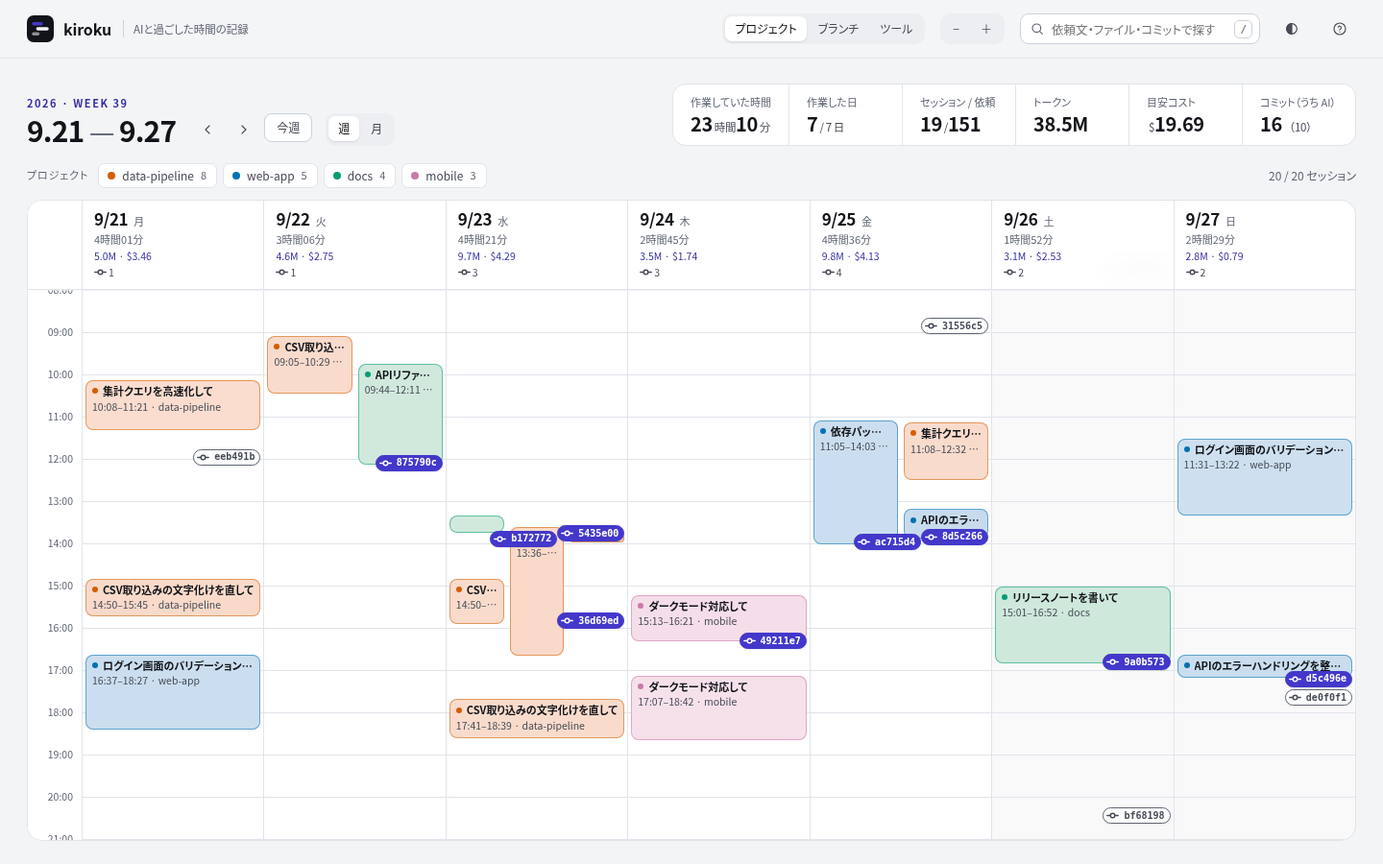
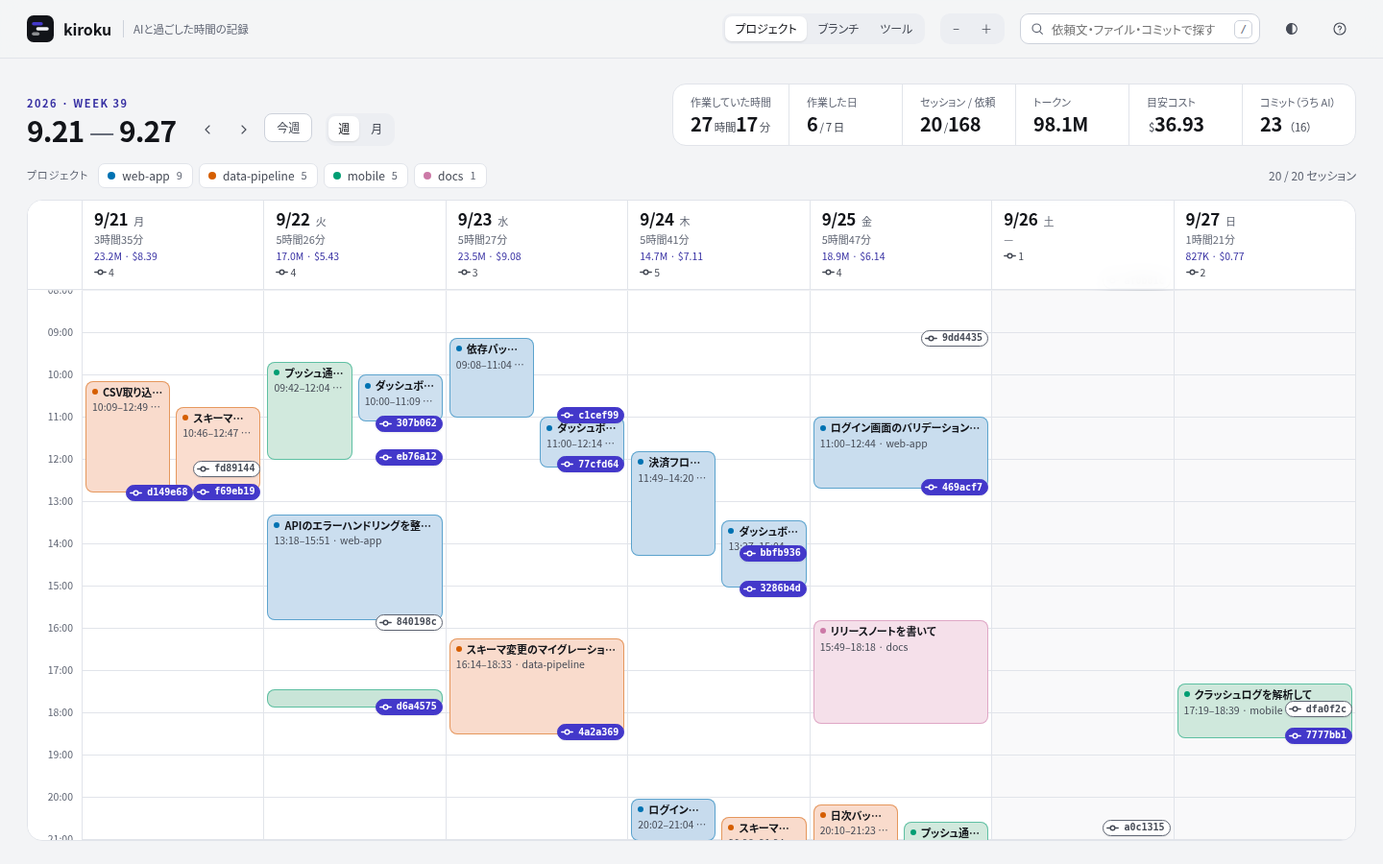
改善のループを回せるようにする：確かな記録に基づく気づき・8 週の推移・試したことの答え合わせ
- セッションごとに、1 回の応答で読んだ入力（文脈）の前半・後半・最大を集計する（core/context.go）
- 気づきに「長くなった会話」「軽い作業での高いモデル」を追加（推定ではなく、記録されたトークンとモデルから判定）
- 気づきのカードに、その指標の 8 週（8 か月）の推移を表示
- 「これを試す」で 1 つ選ぶと、その期間の値を記録し、次の期間以降に「試す前 → 今」と変化の方向を表示（ブラウザに保存）
- 改善案プロンプトに、試していることとその推移を含める
- ダミーデータに、会話が長くなるセッションを混ぜる
- README・ガイド・スクリーンショットを更新

Claude-Session: https://claude.ai/code/session_01WXnCm54bK3Mj4QdxNoNc9j

diff --git a/internal/web/template.html b/internal/web/template.html
@@ -178,6 +178,26 @@ kbd{font:11px/1 var(--mono);padding:3px 5px;border-radius:5px;border:1px solid v
 .flink{color:var(--acc-ink);font-size:11.5px;font-weight:600}
 .flink:hover{text-decoration:underline}
 .fmore{margin-top:12px}
+.spark{display:inline-flex;align-items:center;gap:8px;color:var(--ink-3)}
+.spark svg{flex:none;overflow:visible}
+.spark polyline{fill:none;stroke:var(--acc);stroke-width:1.6;stroke-linejoin:round;stroke-linecap:round}
+.spark circle{fill:var(--acc)}
+.spark small{font-size:10.5px;line-height:1.4}
+.fcard .act{position:relative}
+.fcard .ftry{align-self:flex-start;margin-top:6px;height:26px;font-size:11.5px;color:var(--acc-ink);border-color:color-mix(in oklab,var(--acc) 35%,var(--rule-2));font-weight:600}
+.fcard .trying{font-style:normal;font-size:11px;font-weight:700;color:var(--acc-ink);margin-top:4px}
+.trybar{display:flex;flex-direction:column;gap:8px;margin:10px 0 4px;padding:12px 16px;border-radius:12px;border:1px solid color-mix(in oklab,var(--acc) 35%,var(--rule));background:var(--acc-soft)}
+.trybar .th{display:flex;flex-wrap:wrap;gap:4px 10px;align-items:baseline}
+.trybar .th>b{font-size:10.5px;letter-spacing:.06em;color:var(--on-acc);background:var(--acc);padding:2px 8px;border-radius:999px}
+.trybar .tt{font-weight:650;font-size:13.5px}
+.trybar .th .muted{font-size:11.5px}
+.trybar .tb{font-size:12.5px;color:var(--ink-2);display:flex;flex-wrap:wrap;gap:4px 10px;align-items:baseline}
+.trybar .tb b{color:var(--ink);font-variant-numeric:tabular-nums}
+.trybar .tf{display:flex;justify-content:space-between;align-items:center;gap:10px;flex-wrap:wrap}
+.vd{font-size:11px;font-weight:700;padding:1px 8px;border-radius:999px}
+.vd.good{color:var(--c2);background:color-mix(in oklab,var(--c2) 14%,transparent)}
+.vd.bad{color:var(--warn);background:color-mix(in oklab,var(--warn) 12%,transparent)}
+.vd.same{color:var(--ink-2);background:var(--surface-2)}
 .fmore summary{cursor:pointer;font-size:12.5px;color:var(--ink-2)}
 .fok{font-size:13px;color:var(--ink-2);margin-top:8px}
 .sact{display:flex;flex-direction:column;gap:6px;margin-top:14px;padding:12px 14px;border-radius:10px;background:var(--acc-soft)}
@@ -816,6 +836,9 @@ function summary(){
     t.scrollIntoView({behavior: matchMedia("(prefers-reduced-motion: reduce)").matches ? "auto" : "smooth", block: "center"});
     if (t.classList.contains("hb") && t.getAttribute("aria-expanded") !== "true") t.click(); });
   const more = R.querySelector("#pmore"); if (more) more.onclick = () => { st.allProj = !st.allProj; summary(); };
+  R.querySelectorAll("[data-try]").forEach(b => b.onclick = () => { const f = findList(w, pw, unit).find(x => x.k === b.dataset.try), p = periodBack(0); if (!f) return;
+    store.set("try", {k: f.k, act: f.act, mode: st.mode, start: p.key, label: p.label, base: metricAt(f.k, p)}); toast("次の期間に、同じ指標で比べます"); summary(); });
+  const ts = R.querySelector("#trystop"); if (ts) ts.onclick = () => { store.set("try", null); summary(); };
   const ms = R.querySelector("#moreS"); if (ms) ms.ontoggle = () => { st.moreS = ms.open; };
   const rc = R.querySelector("#rptcopy"); if (rc) rc.onclick = () => copy(reportText(w, M));
   const ac = R.querySelector("#askcopy"); if (ac) ac.onclick = () => copy($("#askpre").textContent);
@@ -861,6 +884,8 @@ const HELP = {
   weekend: {n:"週末", d:"土日の作業時間", c:"週末にどれだけ作業していたか", x:"働きすぎかどうかの判定", a:"自分のペースの振り返りに使う"},
   fix: {n:"言い直し・中断のあった依頼", d:"依頼文の表現（「違う」「やり直して」など）と中断から推定した割合", c:"最初の依頼が意図どおりに伝わらなかった割合の目安", x:"推定のため誤判定がある。原因も分からない", a:"高ければ、依頼文に前提・制約・完了条件を書き足す"},
   limits: {n:"利用上限に当たった回数", d:"Claude Code の履歴に残った、利用上限（使用量の上限・レート制限）のエラーの回数と時刻。1 分以内に続いたものは 1 回", c:"どの時間帯・どの作業で上限に当たり、作業が止まったか", x:"上限までの残り。ほかのエージェントや、ブラウザ・アプリでの利用分", a:"重い作業を時間帯で分ける、軽いモデルに振り分ける、長い会話は区切って新しく始める"},
+  longctx: {n:"長くなった会話", d:"1 回の応答で読んだ入力（新しい入力とキャッシュの読み書き）が、会話の後半 4 分の 1 で前半 4 分の 1 の 4 倍以上になり、最大 10 万トークン以上になったセッション（目安コスト $0.5 以上。トークンを記録するエージェントのみ）", c:"会話を続けたことで、1 回あたりの応答が重くなったセッション", x:"会話を続けたほうがよかったかどうか（前の文脈が必要な作業もある）", a:"区切りのいいところで要点をメモに残し、新しいセッションで続ける"},
+  modelfit: {n:"軽い作業での高いモデル", d:"主に Opus 系のモデルを使い、依頼 3 件以下でファイルを編集しなかった、目安コスト $0.3 以上のセッションの合計", c:"高いモデルを使った短い作業にかかった量", x:"そのモデルが必要だったかどうか（難しい調査や設計の相談もある）", a:"調べものや相談は、まず軽いモデルで試し、足りなければ切り替える"},
   friction: {n:"こじれたかもしれないセッション", d:"言い直し・中断・15 回以上の依頼が多いセッション", c:"手戻りが集中したセッション", x:"こじれた原因", a:"中身を開いて、依頼の仕方や作業の分け方を見直す"},
   share: {n:"プロジェクトの配分", d:"プロジェクトごとの作業時間の割合", c:"時間の配分", x:"配分の妥当さ", a:"想定と違えば、優先順位を見直す"},
   rhythm: {n:"日ごと・週ごとのリズム", d:"週表示では日ごと、月表示では週ごとの作業時間（うち深夜）", c:"作業量の波と偏り", x:"波の原因", a:"特定の日に偏っていれば、作業の割り振りを見直す"},
@@ -906,6 +931,7 @@ function askPrompt(w, pw, M){
     "- 指標の定義はエージェントごとに異なります。エージェント同士を直接比較しないでください",
     "- 数値はすべて履歴から推定した目安です。データから言えないことは、推測であると明記してください",
     "- 各指標の定義と、そこから言えること・言えないことは末尾の「指標の読み方」を参照してください",
+    ...(() => { const T = store.get("try", null); return T && HELP[T.k] ? ["", "# いま試していること", `- ${T.act}（${T.label}から。指標: ${HELP[T.k].n}、試す前 ${fmtM(T.k, T.base)}、この${unit} ${fmtM(T.k, metricAt(T.k, periodBack(0)))}）`, `- 推移: ${(() => { const r = []; for (let i = 7; i >= 0; i--){ const p = periodBack(i); r.push(`${p.label} ${fmtM(T.k, metricAt(T.k, p))}`); } return r.join("、"); })()}`] : []; })(),
     "", "# kiroku が基準で拾った気づき（判定ではなく候補）",
     ...(() => { const F = findList(w, pw, unit); return F.length ? F.map(f => `- ${f.see.replace(/<[^>]+>/g, "")}（基準: ${f.rule}）`) : ["- 基準を超えた指標はありませんでした"]; })(),
     "", "# 全体",
@@ -971,6 +997,66 @@ function askPrompt(w, pw, M){
 }
 /* 期間 [ws, we) に利用上限に当たった時刻と、そのセッション */
 function limitHits(ws, we){ const H = []; DATA.forEach(s => (s.limits || []).forEach(t => { if (t >= ws && t < we) H.push({t, s}); })); return H.sort((a,b) => a.t - b.t); }
+/* 気づきの判定に使う部品（期間 [ws, we) を渡す。推移の計算でも使う） */
+const inP = (s, ws, we) => s.segs.some(([a,b]) => b > ws && a < we);
+function idleOf(ws, we){ // 目安コストが大きいのにコミットも PR もないセッション（成果の印を記録できる Claude Code のみ）
+  const xs = DATA.filter(s => s.cost >= 1 && /claude/i.test(s.source) && !(s.outputs && (s.outputs.commits || s.outputs.prs)) && inP(s, ws, we)).sort((a,b) => b.cost - a.cost);
+  return {xs, c: xs.reduce((t,s) => t + s.cost, 0)}; }
+function longCtxOf(ws, we){ // 会話が長くなり、1 回の応答で読む入力が大きく増えたセッション
+  return DATA.filter(s => inP(s, ws, we) && s.ctx && s.ctx.length === 3 && s.ctx[0] > 0 && s.ctx[1] >= s.ctx[0] * 4 && s.ctx[2] >= 1e5 && s.cost >= 0.5).sort((a,b) => b.cost - a.cost); }
+const mainModel = s => ((s.models || []).slice().sort((a,b) => b[1] - a[1])[0] || [""])[0];
+function lightOf(ws, we){ // 編集のない短いセッションで、高いモデル（Opus 系）を使ったもの
+  const xs = DATA.filter(s => inP(s, ws, we) && /opus/i.test(mainModel(s)) && s.nPrompts <= 3 && !s.nFiles && s.cost >= 0.3).sort((a,b) => b.cost - a.cost);
+  return {xs, c: xs.reduce((t,s) => t + s.cost, 0)}; }
+/* 指標の値（推移と、試していることの答え合わせ用）。low: 小さいほうが望ましい方向 */
+const pctOf = (a, b) => b ? Math.round(a * 100 / b) : null;
+const MET = {
+  limits: {f: (w, ws, we) => limitHits(ws, we).length, low: true, u: "回"},
+  longctx: {f: (w, ws, we) => longCtxOf(ws, we).length, low: true, u: "件"},
+  heavy: {f: (w, ws, we) => w.usage && w.usage.cost >= 0.01 ? pctOf(idleOf(ws, we).c, w.usage.cost) : null, low: true, u: "%"},
+  cost: {f: w => w.usage ? w.usage.cost : null, low: true, fmt: v => usd(v)},
+  costPerCommit: {f: w => w.costPerCommit, low: true, fmt: v => usd(v)},
+  modelfit: {f: (w, ws, we) => w.usage && w.usage.cost >= 0.01 ? pctOf(lightOf(ws, we).c, w.usage.cost) : null, low: true, u: "%"},
+  fix: {f: w => w.fixRate, low: true, u: "%"},
+  friction: {f: w => w.friction.length, low: true, u: "件"},
+  cache: {f: w => w.usage && w.usage.cacheHit != null ? Math.round(w.usage.cacheHit * 100) : null, low: false, u: "%"},
+  outSessions: {f: w => pctOf(w.outSessions, w.sessions), low: false, u: "%"},
+  switches: {f: w => w.switchesAvg, low: true, u: "回"},
+  focus: {f: w => w.focus.length, low: false, u: "回"},
+  wait: {f: w => w.waitP90 != null ? Math.round(w.waitP90 / 60) : null, low: true, u: "分"},
+  night: {f: w => pctOf(w.night, w.active), low: true, u: "%"},
+};
+const fmtM = (k, v) => v == null ? "—" : MET[k].fmt ? MET[k].fmt(v) : `${Math.round(v * 10) / 10}${MET[k].u || ""}`;
+function periodBack(i){ // 表示中の期間から i 個前の期間
+  if (st.mode === "month"){ const a = new Date(st.month.getFullYear(), st.month.getMonth() - i, 1), b = new Date(a.getFullYear(), a.getMonth() + 1, 1);
+    return {S: MONTHS[mkey(a)], ws: a.getTime()/1000, we: b.getTime()/1000, label: `${a.getFullYear()}/${a.getMonth()+1}`, key: mkey(a)}; }
+  const a = addDays(st.week, -7 * i);
+  return {S: WEEKS[key(a)], ws: a.getTime()/1000, we: addDays(a, 7).getTime()/1000, label: `${a.getMonth()+1}/${a.getDate()} の週`, key: key(a)};
+}
+function metricAt(k, p){ if (!MET[k] || !p.S) return null; const v = MET[k].f(p.S, p.ws, p.we); return v == null || Number.isNaN(v) ? null : v; }
+function spark(k){ // 8 期間の推移（記録のない期間は飛ばす）
+  if (!MET[k]) return "";
+  const pts = []; for (let i = 7; i >= 0; i--){ const p = periodBack(i); pts.push({v: metricAt(k, p), l: p.label}); }
+  const vs = pts.filter(p => p.v != null).map(p => p.v); if (vs.length < 2) return "";
+  const lo = Math.min(...vs), hi = Math.max(...vs), W = 112, H = 26, x = i => 4 + i * (W - 8) / 7, y = v => hi === lo ? H / 2 : H - 4 - (v - lo) / (hi - lo) * (H - 8);
+  const line = pts.map((p, i) => p.v == null ? null : `${x(i).toFixed(1)},${y(p.v).toFixed(1)}`).filter(Boolean).join(" ");
+  return `<span class="spark" title="${esc(pts.map(p => `${p.l}: ${fmtM(k, p.v)}`).join("\n"))}"><svg viewBox="0 0 ${W} ${H}" width="${W}" height="${H}" aria-hidden="true"><polyline points="${line}"/>${pts[7].v != null ? `<circle cx="${x(7)}" cy="${y(pts[7].v)}" r="2.6"/>` : ""}</svg><small>${st.mode === "month" ? "8 か月" : "8 週"}の推移（${MET[k].low ? "下がるほど" : "上がるほど"}望ましい方向）</small></span>`;
+}
+/* 試していること：気づきから 1 つ選び、その期間の値と、表示中の期間の値を比べる（ブラウザに保存） */
+function tryBar(unit){
+  const T = store.get("try", null); if (!T || !MET[T.k] || !HELP[T.k]) return "";
+  const cur = periodBack(0), name = HELP[T.k].n, head = `<b>試していること</b><span class="tt">${esc(T.act)}</span><span class="muted">（${esc(name)}・${esc(T.label)}から）</span>`;
+  let body;
+  if (T.mode !== st.mode) body = `${T.mode === "month" ? "月" : "週"}表示に切り替えると、試す前と比べられます。`;
+  else if (cur.key === T.start) body = `ここから試し始めました（${fmtM(T.k, T.base)}）。次の${unit}以降を開くと、同じ指標で比べます。`;
+  else if (cur.key < T.start) body = `試す前の期間を表示しています。`;
+  else { const now = metricAt(T.k, cur);
+    if (now == null || T.base == null) body = `この${unit}の「${esc(name)}」は記録がありません。`;
+    else { const d = now - T.base, rel = T.base ? Math.abs(d) / Math.abs(T.base) : (d ? 1 : 0), good = MET[T.k].low ? d < 0 : d > 0;
+      const v = rel < 0.1 ? ["same", "ほぼ変わらず"] : good ? ["good", "望ましい方向に変化"] : ["bad", "望ましくない方向に変化"];
+      body = `試す前 <b>${fmtM(T.k, T.base)}</b> → この${unit} <b>${fmtM(T.k, now)}</b> <span class="vd ${v[0]}">${v[1]}</span><span class="muted">1 回の差は揺れることがあります。推移で確かめてください。</span>`; } }
+  return `<div class="trybar"><div class="th">${head}</div><div class="tb">${body}</div><div class="tf">${spark(T.k)}<button class="pill" id="trystop">やめる</button></div></div>`;
+}
 /* 気づきと、試せること：指標が決まった基準を超えたものを拾う（AI は使わない。判定ではなく、確かめる候補） */
 function findList(w, pw, unit){
   const F = [], u = w.usage || {}, o = w.outputs || {}, {ws, we} = period();
@@ -982,9 +1068,13 @@ function findList(w, pw, unit){
     add("fix", w.fixRate, `依頼の ${w.fixRate}% で、言い直しや中断がありました`, "最初の依頼が伝わらないと、やり直す分だけ時間とトークンを使います", "依頼 10 件以上で 20% 以上", w.friction.map(f => f.id));
   else if (w.friction.length)
     add("friction", 18, `こじれたかもしれないセッションが ${w.friction.length} 件ありました`, "手戻りが特定のセッションに集中しています。中身を見ると原因の見当がつきます", "言い直し・中断・15 回以上の依頼が多い", w.friction.map(f => f.id));
-  // 目安コストが大きいのにコミットも PR もないセッション（成果の印を記録できる Claude Code のみ）
-  const idle = DATA.filter(s => s.cost >= 1 && /claude/i.test(s.source) && !(s.outputs && (s.outputs.commits || s.outputs.prs)) && s.segs.some(([a,b]) => b > ws && a < we)).sort((a,b) => b.cost - a.cost);
-  const idleC = idle.reduce((t,s) => t + s.cost, 0);
+  const LC = longCtxOf(ws, we);
+  if (LC.length)
+    add("longctx", 34, `${LC.length} 件のセッションで、会話の後半には 1 回の応答で読む入力が前半の ${Math.round(Math.max(...LC.map(s => s.ctx[1] / s.ctx[0])))} 倍まで増えていました（最大 ${tok(Math.max(...LC.map(s => s.ctx[2])))} トークン）`, "会話が長くなるほど、毎回それまでの文脈を読み直すため、同じような依頼でも 1 回あたりが重くなります", "後半の入力が前半の 4 倍以上・最大 10 万トークン以上・$0.5 以上", LC.slice(0,3).map(s => s.id));
+  const LT = lightOf(ws, we);
+  if (u.cost >= 2 && LT.c >= Math.max(1, u.cost * 0.1))
+    add("modelfit", 24, `編集のない短いセッションで、Opus 系のモデルに ${usd(LT.c)}（目安コストの ${Math.round(LT.c*100/u.cost)}%）を使っていました`, "調べものや相談なら、軽いモデルでも足りることがあります", "依頼 3 件以下・編集なし・$0.3 以上の合計が、全体（$2 以上）の 10% 以上かつ $1 以上", LT.xs.slice(0,3).map(s => s.id));
+  const {xs: idle, c: idleC} = idleOf(ws, we);
   if (u.cost >= 2 && idleC >= u.cost * 0.4)
     add("heavy", 30 + Math.round(idleC*50/u.cost), `目安コストの ${Math.round(idleC*100/u.cost)}%（${usd(idleC)}）が、コミットも PR もないセッションでした`, "調査や相談なら問題ありません。途中で止まったのなら、理由を確かめる価値があります", "$1 以上のセッションの合計が、全体（$2 以上）の 40% 以上", idle.slice(0,3).map(s => s.id));
   if (pw && pw.usage && pw.usage.cost >= 1 && u.cost >= pw.usage.cost * 1.5)
@@ -1005,17 +1095,20 @@ function findList(w, pw, unit){
     add("night", 8, `作業の ${Math.round(w.night*100/w.active)}%（${dur(w.night)}）が 22〜6 時でした`, "意図したものかどうか、自分のペースを振り返る材料です", "2 時間以上で、作業の 25% 以上", null, "意図したものでなければ、終える時刻を先に決めておく。長い作業は日中に AI へ任せる");
   return F.sort((a,b) => b.score - a.score);
 }
+const GOTO = {longctx: "heavy", modelfit: "models"}; // 専用の指標がない気づきは、関係する指標へ
 function findPanel(w, pw, unit, ph){
-  const F = findList(w, pw, unit);
+  const F = findList(w, pw, unit), T = store.get("try", null);
   const ses = ids => ids.map(id => { const s = DATA.find(x => x.id === id); return s ? `<button class="fses" data-id="${esc(id)}" style="--c:${colorOf(keyOf(s))}"><i></i><span>${esc(s.title)}</span><small>${md(s.start)}</small></button>` : ""; }).join("");
   const card = (f, i) => `<article class="fcard">
       <div class="fno">${i+1}</div>
       <p class="see">${f.see}</p><p class="why">${esc(f.why)}</p>
-      <div class="act"><b>試せること</b><span>${esc(f.act)}</span></div>
+      ${spark(f.k)}
+      <div class="act"><b>試せること</b><span>${esc(f.act)}</span>${MET[f.k] ? (T && T.k === f.k ? '<em class="trying">試しています</em>' : `<button class="pill ftry" data-try="${f.k}">これを試す</button>`) : ""}</div>
       ${f.ids.length ? `<div class="fss">${ses(f.ids)}</div>` : ""}
-      <div class="ff"><button class="flink" data-goto="${f.k}">「${esc(HELP[f.k].n)}」を見る →</button><span title="この気づきを出す基準">基準：${esc(f.rule)}</span></div></article>`;
+      <div class="ff"><button class="flink" data-goto="${GOTO[f.k] || f.k}">「${esc(HELP[GOTO[f.k] || f.k].n)}」を見る →</button><span title="この気づきを出す基準">基準：${esc(f.rule)}</span></div></article>`;
   const top = F.slice(0, 3), rest = F.slice(3);
   return `<section class="panel fd">${ph(1, "気づきと、試せること", `この${unit}の数値から、見直すとよさそうな点`, "findings")}
+    ${tryBar(unit)}
     ${F.length ? `<div class="fgrid">${top.map(card).join("")}</div>
       ${rest.length ? `<details class="fmore"><summary>ほかの気づき（${rest.length} 件）</summary><div class="fgrid">${rest.map((f,i) => card(f, i+3)).join("")}</div></details>` : ""}`
       : `<p class="fok">決めた基準を超えた指標はありませんでした。下のプロジェクト別やコストと成果で、先${unit}との違いを確かめられます。</p>`}

diff --git a/internal/core/session.go b/internal/core/session.go
@@ -217,6 +217,7 @@ type Session struct {
 	Waits        [][2]float64  `json:"waits"`
 	Interrupts   int           `json:"interrupts"`
 	Limits       []float64     `json:"limits"` // 利用上限に当たった時刻
+	Ctx          []float64     `json:"ctx"`    // 1 回の応答で読んだ入力（文脈）の大きさ [前半, 後半, 最大]（context.go）
 	Corrections  int           `json:"corrections"`
 	Models       [][2]any      `json:"models"`
 	Usage        UsageTotal    `json:"usage"`
@@ -310,6 +311,7 @@ func (s *Builder) Finish(gapMin int) *Session {
 		prompts = prompts[:50]
 	}
 	main := s.Usage.Events()
+	ctx := ContextGrowth(main)
 	if len(s.Reported) > 0 {
 		groups := [][]Event{main}
 		for _, a := range s.Subagents {
@@ -357,7 +359,7 @@ func (s *Builder) Finish(gapMin int) *Session {
 		ID: s.ID, Source: s.Source, Project: name, ProjectPath: project, Branch: strOrNil(s.Branch), Title: title,
 		Start: times[0], End: times[len(times)-1], Events: len(times), Segs: Segments(times, float64(gapMin*60)),
 		Prompts: prompts, NPrompts: len(s.Prompts), Tools: tools, Files: files, NFiles: nFiles, Resume: strOrNil(s.Resume),
-		Waits: s.Waits(), Interrupts: s.Interrupts, Limits: limits(s.Limits), Corrections: s.Corrections(), Models: models,
+		Waits: s.Waits(), Interrupts: s.Interrupts, Limits: limits(s.Limits), Ctx: ctx, Corrections: s.Corrections(), Models: models,
 		Usage: mainSum, Subagents: subs, Credits: Round(credits, 3), Cost: Round(cost, 4),
 		UEv: uev, CEv: s.Credits, OEv: s.Outputs, Outputs: outs, Fix: s.FixTS, CostReported: len(s.Reported) > 0, File: s.File, PRs: prs,
 		Native: AggregateNative(s.Source, s.Measures), Meas: s.Measures,

diff --git a/tools/screenshots/gen.py b/tools/screenshots/gen.py
@@ -32,13 +32,14 @@ for d in range(35, -1, -1):
         model = random.choice(models)
         t = start; lines = []
         nprompt = random.randint(2, 14)
+        grow = random.choice([0, 0, 1, 4]); step = 0  # 会話が長くなるほど文脈が増えるセッションを混ぜる
         for i in range(nprompt):
             txt = random.choice(projects[p]) if i == 0 else (random.choice(retry) if random.random()<0.08 else random.choice(follow))
             lines.append({"type":"user","timestamp":t.isoformat(),"cwd":cwd,"gitBranch":br,"sessionId":sid,"message":{"role":"user","content":txt}})
             for k in range(random.randint(1,5)):
                 t += dt.timedelta(seconds=random.randint(20,240))
                 mid = "msg_"+uuid.uuid4().hex[:10]
-                usage = {"input_tokens":random.randint(5,200),"output_tokens":random.randint(100,3000),"cache_creation_input_tokens":random.randint(500,8000),"cache_read_input_tokens":random.randint(20000,150000)}
+                usage = {"input_tokens":random.randint(5,200),"output_tokens":random.randint(100,3000),"cache_creation_input_tokens":random.randint(500,8000),"cache_read_input_tokens":random.randint(15000,40000) + step * grow * 5000}; step += 1
                 tool = random.choice(tools)
                 if i == nprompt-1 and k == 0 and random.random() < 0.6: tool = "Commit"
                 if tool == "Commit":

diff --git a/internal/core/context.go b/internal/core/context.go
@@ -1,0 +1,34 @@
+package core
+
+import "sort"
+
+// ContextGrowth は、会話が長くなるにつれて 1 回の応答で読む入力（文脈）がどれだけ大きくなったかを返す。
+// 入力 = 新しい入力 + キャッシュへの書き込み + キャッシュからの読み取り。
+// [前半 4 分の 1 の中央値, 後半 4 分の 1 の中央値, 最大]。応答が 8 回未満なら空。
+func ContextGrowth(evs []Event) []float64 {
+	var xs []float64
+	for _, e := range evs {
+		if in := e.U.In + e.U.CW + e.U.CW1h + e.U.CR; in > 0 {
+			xs = append(xs, in)
+		}
+	}
+	if len(xs) < 8 {
+		return []float64{}
+	}
+	q := len(xs) / 4
+	peak := 0.0
+	for _, x := range xs {
+		peak = max(peak, x)
+	}
+	return []float64{median(xs[:q]), median(xs[len(xs)-q:]), peak}
+}
+
+func median(xs []float64) float64 {
+	ys := append([]float64(nil), xs...)
+	sort.Float64s(ys)
+	n := len(ys)
+	if n%2 == 1 {
+		return ys[n/2]
+	}
+	return (ys[n/2-1] + ys[n/2]) / 2
+}

diff --git a/main_test.go b/main_test.go
@@ -212,7 +212,7 @@ func compare(want, got any, path string, diffs *[]string) {
 			inDay := strings.Contains(path, ".days[") && !strings.Contains(path[strings.LastIndex(path, ".days[")+1:], ".")
 			if k == "unpriced" && filepath.Base(filepath.ToSlash(path)) == "usage" || k == "native" ||
 				inDay && (k == "tokens" || k == "cost" || k == "credits") || // Go 版で足した日ごとの使用量
-				k == "projectStats" || k == "limits" || k == "outputs" || k == "file" || k == "prs" || k == "outSessions" || k == "costPerCommit" || k == "git" || inDay && k == "commits" { // Go 版で足したプロジェクト別のまとめ・成果
+				k == "projectStats" || k == "limits" || k == "ctx" || k == "outputs" || k == "file" || k == "prs" || k == "outSessions" || k == "costPerCommit" || k == "git" || inDay && k == "commits" { // Go 版で足したプロジェクト別のまとめ・成果
 				continue
 			}
 			wv, wok := w[k]

diff --git a/internal/core/context_test.go b/internal/core/context_test.go
@@ -1,0 +1,17 @@
+package core
+
+import "testing"
+
+func TestContextGrowth(t *testing.T) {
+	var evs []Event
+	for i := 0; i < 12; i++ { // 文脈が 10k から 1 回ごとに 10k ずつ増える
+		evs = append(evs, Event{U: Tokens{In: 1000, CR: float64(9000 + i*10000)}})
+	}
+	got := ContextGrowth(evs)
+	if len(got) != 3 || got[0] != 20000 || got[1] != 110000 || got[2] != 120000 {
+		t.Errorf("ContextGrowth = %v, want [20000 110000 120000]", got)
+	}
+	if got := ContextGrowth(evs[:5]); len(got) != 0 {
+		t.Errorf("応答が少ないときは空, got %v", got)
+	}
+}

diff --git a/docs/guide.md b/docs/guide.md
@@ -54,7 +54,7 @@ go install github.com/MichinaoShimizu/kiroku@latest
   - セッションの「変更したファイル」：そのセッションの間のコミットで変わったファイルなら、そのコミットでのファイルのページを開きます
   - セッションの「作った PR」：AI が作った PR（`gh pr create` や GitHub のツールの結果に出た URL）を開きます
   - セッションの「履歴ファイル」：そのセッションの元の履歴を開きます。`kiroku serve` では画面から（読み込んだセッションの履歴ファイルだけを、手元の画面にだけ返します）、`kiroku html` では `file://` で開きます。SQLite の履歴は開けないので、パスのコピーだけです
-- カレンダーの下に、週次・月次サマリーを表示します。いちばん上の ① 気づきと、試せること では、基準を超えた指標を「見えたこと・試せること・該当するセッション・基準」の形で優先度の高い順に 3 件まで示します。「〜を見る」を押すと元の指標へ移動し、説明を開きます。② プロジェクト別のカードでは、プロジェクトごとに「どのセッションに何時間、どれだけのトークン・目安コスト・クレジットを、どのモデルを中心に使い、どれが最も重かったか」と成果の印を示します。③ コストと成果では、使ったもの（作業時間・目安コスト・トークン・クレジット）と残ったもの（コミット・PR・変更した行など）を並べます。続いて ④ 時間の使い方 ⑤ AI の使い方 ⑥ 週 / 月のかたち、最後に ⑦ AI に改善案を聞く が表示されます。④ 時間の使い方では、推定を含む指標（言い直し・中断、切り替え、並列、待たせ時間）を「詳しい指標」に折りたたんでいます
+- カレンダーの下に、週次・月次サマリーを表示します。いちばん上の ① 気づきと、試せること では、基準を超えた指標を「見えたこと・試せること・該当するセッション・基準」の形で優先度の高い順に 3 件まで示します。「〜を見る」を押すと元の指標へ移動し、説明を開きます。各カードには、その指標の 8 週（月表示では 8 か月）の推移を表示します。「これを試す」を押すと、その期間の値を記録し、次の期間以降を開いたときに「試す前 → 今」の値と、望ましい方向に変わったかを表示します（記録はブラウザに保存され、1 つだけ持てます）。② プロジェクト別のカードでは、プロジェクトごとに「どのセッションに何時間、どれだけのトークン・目安コスト・クレジットを、どのモデルを中心に使い、どれが最も重かったか」と成果の印を示します。③ コストと成果では、使ったもの（作業時間・目安コスト・トークン・クレジット）と残ったもの（コミット・PR・変更した行など）を並べます。続いて ④ 時間の使い方 ⑤ AI の使い方 ⑥ 週 / 月のかたち、最後に ⑦ AI に改善案を聞く が表示されます。④ 時間の使い方では、推定を含む指標（言い直し・中断、切り替え、並列、待たせ時間）を「詳しい指標」に折りたたんでいます
 - 各指標の「?」を押すと、定義と、そこから言えること・言えないこと・打てる手を表示します
 - 「AI に改善案を聞く」には、表示中の週・月の集計をもとに、使い方の改善案を AI に聞くためのプロンプトを表示します。「プロンプトをコピー」でコピーし、お使いの AI エージェントに貼り付けて使います（kiroku 自身は AI を呼び出しません）。セッション名（依頼文の一部）とプロジェクト名を含むため、送る前に内容を確認してください
 - 検索（右上、`/`）：依頼文・タイトル・プロジェクト・ブランチに加えて、変更したファイル・PR・そのセッションの間のコミット（件名・ハッシュ・ファイル）も探します。カレンダーは一致したセッションだけを表示し、サマリーの位置に全期間の検索結果（どこに一致したかの抜粋つき）を表示します。結果を押すと、その週を開いて詳細を表示します
@@ -70,7 +70,7 @@ go install github.com/MichinaoShimizu/kiroku@latest
 
 | 指標 | 定義 |
 |---|---|
-| 気づきと、試せること | 次の基準を超えた指標を、優先度の高い順に表示します。利用上限に 1 回以上当たった／目安コスト $1 以上でコミットも PR もない Claude Code のセッションが、期間の目安コスト（$2 以上）の 40% 以上／目安コストが前の期間の 1.5 倍以上／1 コミットあたりの目安コストが前の期間の 1.5 倍以上（コミット 3 回以上）／言い直し・中断のあった依頼が 20% 以上（依頼 10 件以上）、またはこじれたかもしれないセッションがある／キャッシュから読んだ割合が 50% 未満（トークン 1M 以上）／コミットまで行ったセッションが 25% 未満（セッション 5 件以上）／1 日の切り替えが平均 5 回以上／作業 4 時間以上で集中ブロックが 0 回／待たせ時間の 90 パーセンタイルが 15 分以上（n≥10）／深夜が 2 時間以上かつ作業の 25% 以上 |
+| 気づきと、試せること | 次の基準を超えた指標を、優先度の高い順に表示します。利用上限に 1 回以上当たった／長くなった会話がある（後半の入力が前半の 4 倍以上・最大 10 万トークン以上・$0.5 以上）／軽い作業での高いモデルの合計が、目安コスト（$2 以上）の 10% 以上かつ $1 以上／目安コスト $1 以上でコミットも PR もない Claude Code のセッションが、期間の目安コスト（$2 以上）の 40% 以上／目安コストが前の期間の 1.5 倍以上／1 コミットあたりの目安コストが前の期間の 1.5 倍以上（コミット 3 回以上）／言い直し・中断のあった依頼が 20% 以上（依頼 10 件以上）、またはこじれたかもしれないセッションがある／キャッシュから読んだ割合が 50% 未満（トークン 1M 以上）／コミットまで行ったセッションが 25% 未満（セッション 5 件以上）／1 日の切り替えが平均 5 回以上／作業 4 時間以上で集中ブロックが 0 回／待たせ時間の 90 パーセンタイルが 15 分以上（n≥10）／深夜が 2 時間以上かつ作業の 25% 以上 |
 | プロジェクト別 | プロジェクトごとの作業時間と割合、セッション / 依頼の数、トークン・目安コスト・クレジット、中心のモデル（トークンの割合。トークンを記録しないエージェントは回数）、稼働時間の長いセッション上位 3 件、最も重いセッション（目安コスト、なければクレジット、なければトークンで判定）。複数のプロジェクトが同時に稼働していた時間は按分します |
 | 作業していた時間 | いずれかのセッションが稼働していた時間（重なりは 1 回として計算） |
 | AI の延べ稼働 | 並列で稼働した分も合算した時間 |
@@ -80,6 +80,8 @@ go install github.com/MichinaoShimizu/kiroku@latest
 | 待たせ時間 | AI の応答から次の依頼までの時間（30 分以内のもの）の中央値と 90 パーセンタイル |
 | 深夜・週末 | 22〜6 時と土日の作業時間 |
 | 言い直し・中断のあった依頼 | 依頼文の表現（「違う」「やり直して」など）と中断から推定した割合。依頼の数（n）を併記します |
+| 長くなった会話 | 1 回の応答で読んだ入力（新しい入力とキャッシュの読み書き）が、会話の後半 4 分の 1 で前半 4 分の 1 の 4 倍以上になり、最大 10 万トークン以上になったセッション（目安コスト $0.5 以上。応答が 8 回以上あり、トークンを記録するエージェントのみ） |
+| 軽い作業での高いモデル | 主に Opus 系のモデルを使い、依頼 3 件以下でファイルを編集しなかった、目安コスト $0.3 以上のセッションの合計 |
 | 利用上限に当たった回数 | Claude Code の履歴に残った、利用上限（使用量の上限・レート制限）のエラーの回数と時刻。1 分以内に続いたものは 1 回と数えます。カレンダーには赤い「上限」の印で表示します |
 | こじれたかもしれないセッション | 言い直し・中断・15 回以上の依頼が多いセッション |
 | 日ごと・週ごとのリズム | 週表示では日ごと、月表示では週ごとの作業時間（うち深夜） |
@@ -159,6 +161,8 @@ kiroku serve --prices my-prices.json
 | 深夜 | 時間外にどれだけ作業していたか | 働きすぎかどうかの判定 | 自分のペースの振り返りに使う |
 | 週末 | 週末にどれだけ作業していたか | 働きすぎかどうかの判定 | 自分のペースの振り返りに使う |
 | 言い直し・中断のあった依頼 | 最初の依頼が意図どおりに伝わらなかった割合の目安 | 推定のため誤判定がある。原因も分からない | 高ければ、依頼文に前提・制約・完了条件を書き足す |
+| 長くなった会話 | 会話を続けたことで、1 回あたりの応答が重くなったセッション | 会話を続けたほうがよかったかどうか（前の文脈が必要な作業もある） | 区切りのいいところで要点をメモに残し、新しいセッションで続ける |
+| 軽い作業での高いモデル | 高いモデルを使った短い作業にかかった量 | そのモデルが必要だったかどうか（難しい調査や設計の相談もある） | 調べものや相談は、まず軽いモデルで試し、足りなければ切り替える |
 | 利用上限に当たった回数 | どの時間帯・どの作業で上限に当たり、作業が止まったか | 上限までの残り。ほかのエージェントや、ブラウザ・アプリでの利用分 | 重い作業を時間帯で分ける、軽いモデルに振り分ける、長い会話は区切って新しく始める |
 | こじれたかもしれないセッション | 手戻りが集中したセッション | こじれた原因 | 中身を開いて、依頼の仕方や作業の分け方を見直す |
 | プロジェクトの配分 | 時間の配分 | 配分の妥当さ | 想定と違えば、優先順位を見直す |
